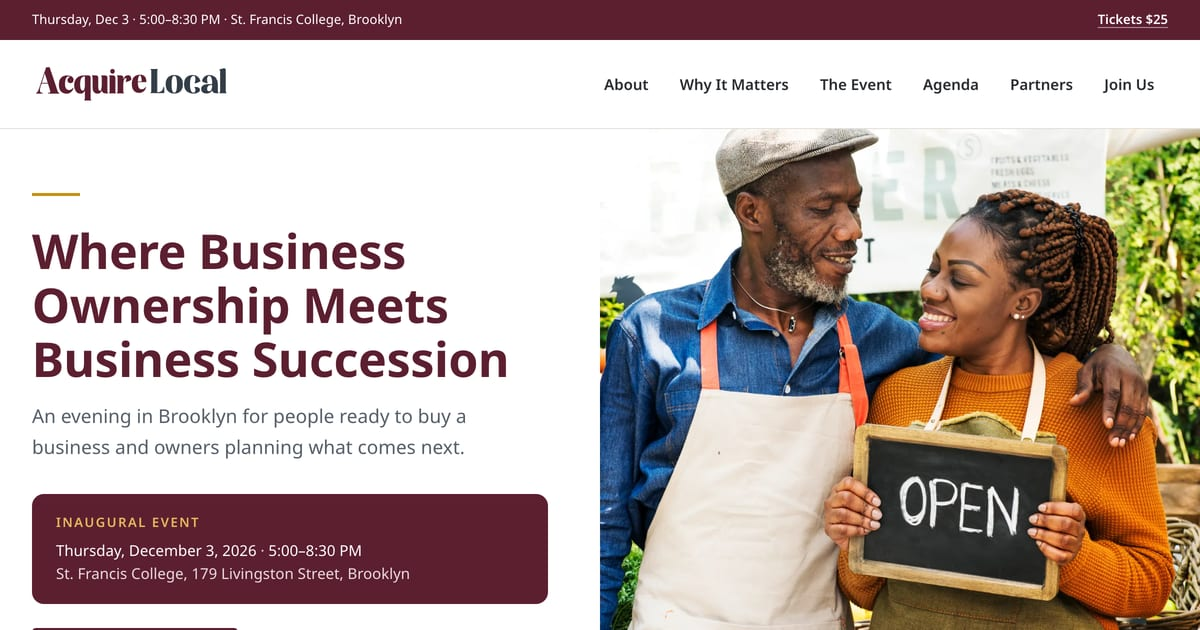
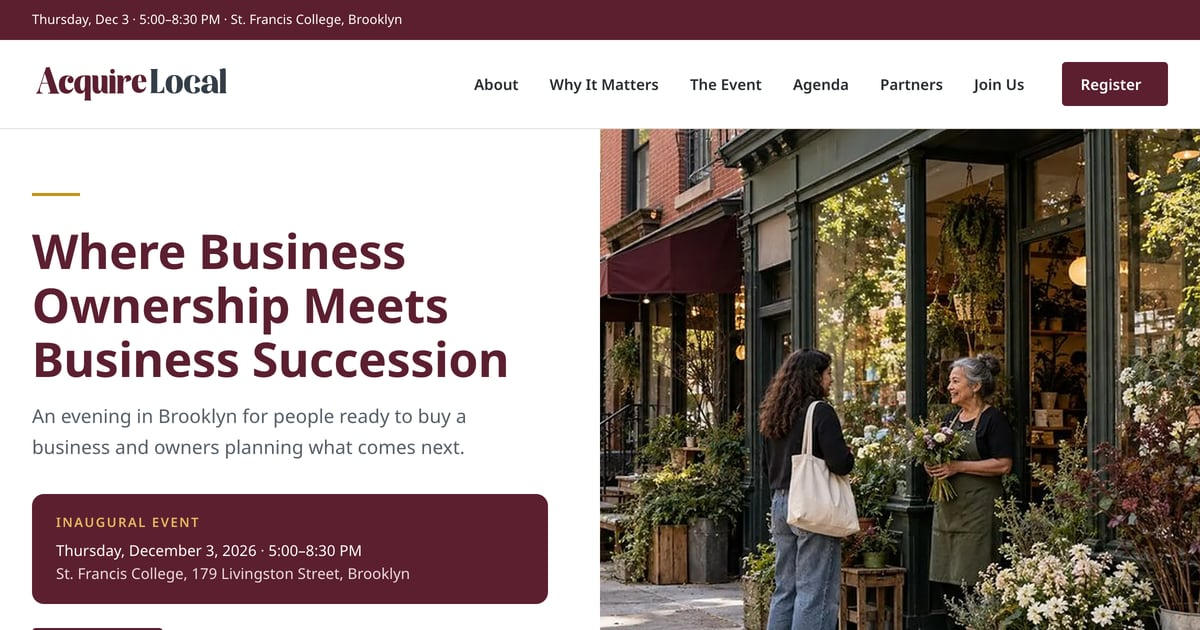
Link preview shows the new hero; canonical and preview URLs use acquirelocal.com
The preview tags pointed at the old GitHub Pages copy, which no longer updates.

diff --git a/index.html b/index.html
@@ -10,21 +10,21 @@
   <link rel="icon" href="favicon.svg" type="image/svg+xml">
   <link rel="apple-touch-icon" href="apple-touch-icon.png">
   <link rel="manifest" href="site.webmanifest">
-  <!-- Link previews (Open Graph / social). TODO: switch BASE URL to the final domain at launch -->
-  <link rel="canonical" href="https://mfebres0919.github.io/AcquireLocal/">
+  <!-- Link previews (Open Graph / social) and canonical URL: the live domain -->
+  <link rel="canonical" href="https://acquirelocal.com/">
   <meta property="og:type" content="website">
   <meta property="og:site_name" content="AcquireLocal">
   <meta property="og:title" content="AcquireLocal | Business Ownership and Succession">
   <meta property="og:description" content="Connecting experienced professionals and legacy business owners. Join our inaugural event Dec 3, 2026 at St. Francis College. Tickets $25.">
-  <meta property="og:url" content="https://mfebres0919.github.io/AcquireLocal/">
-  <meta property="og:image" content="https://mfebres0919.github.io/AcquireLocal/images/og-image.jpg">
+  <meta property="og:url" content="https://acquirelocal.com/">
+  <meta property="og:image" content="https://acquirelocal.com/images/og-image.jpg?v=2026-11-09">
   <meta property="og:image:width" content="1200">
   <meta property="og:image:height" content="630">
   <meta property="og:image:alt" content="AcquireLocal: Where Business Ownership Meets Business Succession">
   <meta name="twitter:card" content="summary_large_image">
   <meta name="twitter:title" content="AcquireLocal | Business Ownership and Succession">
   <meta name="twitter:description" content="Connecting experienced professionals and legacy business owners. Join our inaugural event Dec 3, 2026 at St. Francis College. Tickets $25.">
-  <meta name="twitter:image" content="https://mfebres0919.github.io/AcquireLocal/images/og-image.jpg">
+  <meta name="twitter:image" content="https://acquirelocal.com/images/og-image.jpg?v=2026-11-09">
 
   <link rel="preload" href="fonts/web/noto-sans-700-normal.woff2" as="font" type="font/woff2" crossorigin>
   <link rel="preload" href="fonts/web/noto-sans-400-normal.woff2" as="font" type="font/woff2" crossorigin>

diff --git a/html/accessibility.html b/html/accessibility.html
@@ -10,13 +10,13 @@
   <link rel="icon" href="../favicon.svg" type="image/svg+xml">
   <link rel="apple-touch-icon" href="../apple-touch-icon.png">
   <link rel="manifest" href="../site.webmanifest">
-  <link rel="canonical" href="https://mfebres0919.github.io/AcquireLocal/html/accessibility.html">
+  <link rel="canonical" href="https://acquirelocal.com/html/accessibility.html">
   <meta property="og:type" content="website">
   <meta property="og:site_name" content="AcquireLocal">
   <meta property="og:title" content="Accessibility Statement | AcquireLocal">
   <meta property="og:description" content="How AcquireLocal makes this website accessible to everyone, and how to tell us if something gets in your way.">
-  <meta property="og:url" content="https://mfebres0919.github.io/AcquireLocal/html/accessibility.html">
-  <meta property="og:image" content="https://mfebres0919.github.io/AcquireLocal/images/og-image.jpg">
+  <meta property="og:url" content="https://acquirelocal.com/html/accessibility.html">
+  <meta property="og:image" content="https://acquirelocal.com/images/og-image.jpg?v=2026-11-09">
   <meta property="og:image:width" content="1200">
   <meta property="og:image:height" content="630">
   <meta name="twitter:card" content="summary_large_image">

diff --git a/html/faq.html b/html/faq.html
@@ -10,13 +10,13 @@
   <link rel="icon" href="../favicon.svg" type="image/svg+xml">
   <link rel="apple-touch-icon" href="../apple-touch-icon.png">
   <link rel="manifest" href="../site.webmanifest">
-  <link rel="canonical" href="https://mfebres0919.github.io/AcquireLocal/html/faq.html">
+  <link rel="canonical" href="https://acquirelocal.com/html/faq.html">
   <meta property="og:type" content="website">
   <meta property="og:site_name" content="AcquireLocal">
   <meta property="og:title" content="FAQ | AcquireLocal">
   <meta property="og:description" content="Answers about entrepreneurship through acquisition, business succession, and the upcoming AcquireLocal event.">
-  <meta property="og:url" content="https://mfebres0919.github.io/AcquireLocal/html/faq.html">
-  <meta property="og:image" content="https://mfebres0919.github.io/AcquireLocal/images/og-image.jpg">
+  <meta property="og:url" content="https://acquirelocal.com/html/faq.html">
+  <meta property="og:image" content="https://acquirelocal.com/images/og-image.jpg?v=2026-11-09">
   <meta property="og:image:width" content="1200">
   <meta property="og:image:height" content="630">
   <meta name="twitter:card" content="summary_large_image">

diff --git a/html/privacy.html b/html/privacy.html
@@ -10,13 +10,13 @@
   <link rel="icon" href="../favicon.svg" type="image/svg+xml">
   <link rel="apple-touch-icon" href="../apple-touch-icon.png">
   <link rel="manifest" href="../site.webmanifest">
-  <link rel="canonical" href="https://mfebres0919.github.io/AcquireLocal/html/privacy.html">
+  <link rel="canonical" href="https://acquirelocal.com/html/privacy.html">
   <meta property="og:type" content="website">
   <meta property="og:site_name" content="AcquireLocal">
   <meta property="og:title" content="Privacy Policy | AcquireLocal">
   <meta property="og:description" content="How AcquireLocal collects, uses, and protects the information you share with us.">
-  <meta property="og:url" content="https://mfebres0919.github.io/AcquireLocal/html/privacy.html">
-  <meta property="og:image" content="https://mfebres0919.github.io/AcquireLocal/images/og-image.jpg">
+  <meta property="og:url" content="https://acquirelocal.com/html/privacy.html">
+  <meta property="og:image" content="https://acquirelocal.com/images/og-image.jpg?v=2026-11-09">
   <meta property="og:image:width" content="1200">
   <meta property="og:image:height" content="630">
   <meta name="twitter:card" content="summary_large_image">
